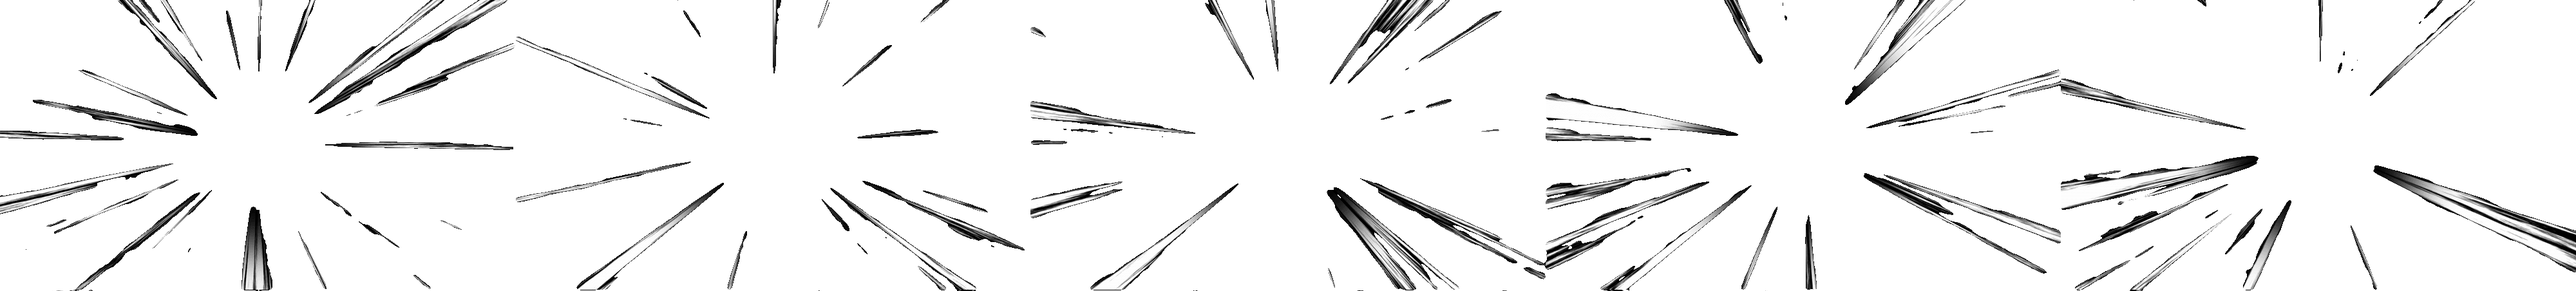
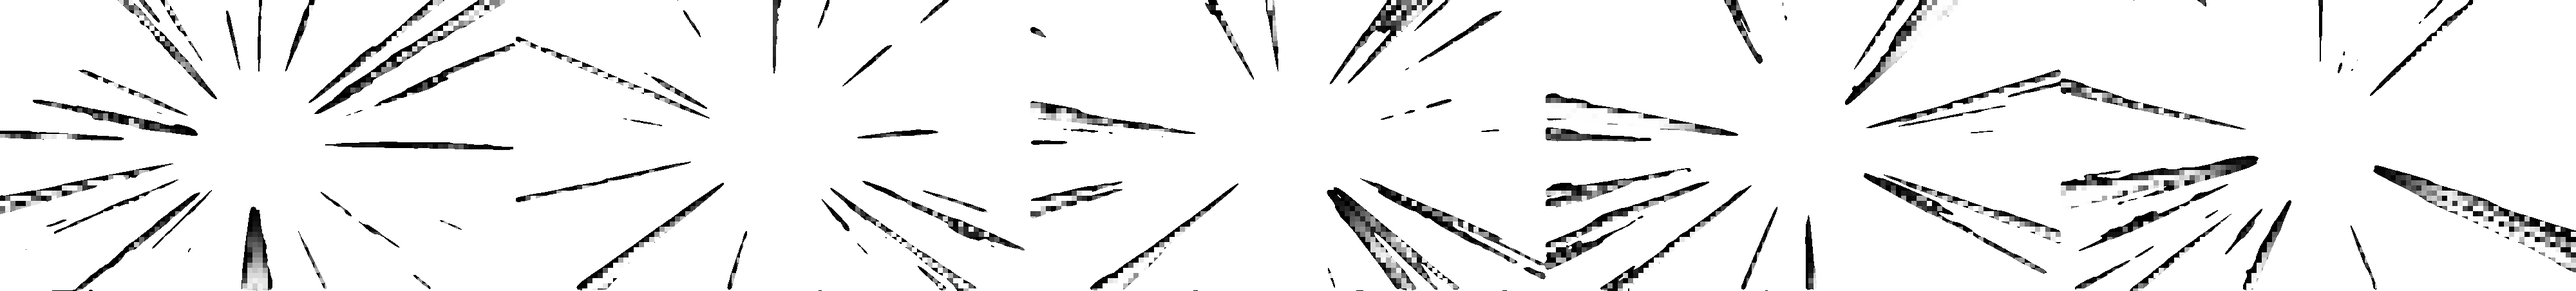
feat (good practice): remove useless file

diff --git a/src/init/init_menu.c b/src/init/init_menu.c
@@ -17,30 +17,6 @@ void destroy_menu(menu_t menu)
     sfTexture_destroy(menu.panel_text);
 }
 
-crosshair_t *init_crosshair(void)
-{
-    crosshair_t *crosshair = malloc(sizeof(crosshair_t));
-
-    if (crosshair == NULL)
-        return NULL;
-    crosshair->ttr = sfTexture_createFromFile("ressources/Wolf3D_OGG/texture/"
-        "shell_crosshair.png", NULL);
-    crosshair->spr = sfSprite_create();
-    crosshair->pos = (sfVector2f){0};
-    crosshair->scale = (sfVector2f){0};
-    return crosshair;
-}
-
-custom_settings_t *init_custom_settings(void)
-{
-    custom_settings_t *custom_setting = malloc(sizeof(custom_settings_t));
-
-    if (custom_setting == NULL)
-        return NULL;
-    custom_setting->crosshair = init_crosshair();
-    return custom_setting;
-}
-
 int init_panel(menu_t *menu)
 {
     (menu)->panel_text =

diff --git a/include/buttons.h b/include/buttons.h
@@ -13,13 +13,11 @@
     #define NB_BUTTONS_MENU 3
     #define NB_BUTTONS_SETTINGS 4
     #define NB_COLOR 5
-    #define B_TEXTURE "ressources/Wolf3D_OGG/texture/texture_bouton.png"
     #define FONT "ressources/Wolf3D_OGG/font/font.ttf"
     #define UNUSED(var) (void)(var)
 
 typedef struct buttons_s buttons_t;
 typedef struct entity_s entity_t;
-typedef struct custom_settings_s custom_settings_t;
 typedef struct sys_data_s sys_data_t;
 typedef struct musics_s musics_t;
 typedef struct game_s game_t;

diff --git a/include/scene_menu.h b/include/scene_menu.h
@@ -56,7 +56,6 @@
 
 typedef struct buttons_s buttons_t;
 typedef struct entity_s entity_t;
-typedef struct custom_settings_s custom_settings_t;
 typedef struct sys_data_s sys_data_t;
 typedef struct musics_s musics_t;
 
@@ -90,7 +89,6 @@ typedef struct time_info_s time_info_t;
 typedef struct menu_s {
     buttons_t **buttons;
     entity_t *entity;
-    custom_settings_t *custom_set;
     sfSprite *panel_sprite;
     sfTexture *panel_text;
 } menu_t;

diff --git a/include/wolfengine.h b/include/wolfengine.h
@@ -92,17 +92,6 @@ typedef struct time_info_s {
     float delta_time;
 } time_info_t;
 
-typedef struct crosshair_s {
-    sfTexture *ttr;
-    sfSprite *spr;
-    sfVector2f pos;
-    sfVector2f scale;
-} crosshair_t;
-
-typedef struct custom_settings_s {
-    crosshair_t *crosshair;
-} custom_settings_t;
-
 typedef struct settings_s {
     float difficulty;
     player_settings_t *player_settings;
